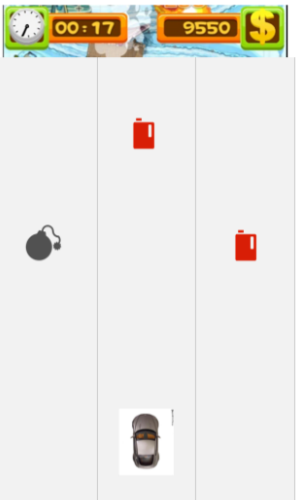
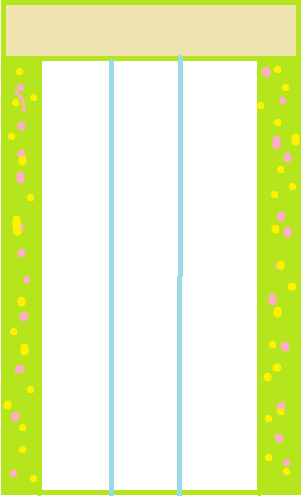
grass

diff --git a/js/main1.js b/js/main1.js
@@ -105,15 +105,16 @@ var states = {
     },
     // 游戏场景
     play: function() {
-    	var 
+    	var grassBeltWidth = 50,
     		scoreMusic,
         	bombMusic,
         	bgMusic;
+       
     	// 障碍物和奖励的速度
 		var obstacle_velocity = 300;
 		var	star_velocity = 300;
 		// x滑动的最小触发距离
-		var minTouchDis = width / 6;
+		var minTouchDis = width / 8;
     	
     	this.create = function(){
     		// 添加背景音乐
@@ -158,7 +159,7 @@ var states = {
 	        // 创建一个group，包含20个障碍物
 	        this.obstacles = game.add.group();
 	        this.obstacles.enableBody = true;
-	        this.obstacles.createMultiple(20, 'obstacle');
+	        this.obstacles.createMultiple(15, 'obstacle');
 	        
 	        // 创建一个group，包含10个奖励星星
 	        this.stars = game.add.group();
@@ -191,9 +192,8 @@ var states = {
 				//console.log('addMoveCallback--',3);
 			},this);
 			
-			
 	        // 定时器，创建障碍物和奖励
-	        this.timer = this.game.time.events.loop(1000, this.add_move_sprite, this); 
+	        this.timer = this.game.time.events.loop(200, this.add_move_sprite, this); 
 	        // 定时器，减少时间
 	        this.reduceTimer = this.game.time.events.loop(1000, this.reduceTime, this); 
     	},
@@ -206,20 +206,23 @@ var states = {
     	this.moveCar = function(moveType){
 	    	// 获取小车的当前x位置
 	    	var curCarX = this.car.world.x;
+    		var	halfRoadWidth = (game.world.width-grassBeltWidth*2)/6;
+        	var lRoadCenter =  grassBeltWidth+ halfRoadWidth*1-this.car.width/2;//左车道中心
+        	var cRoadCenter =  grassBeltWidth+ halfRoadWidth*3-this.car.width/2;//中车道中心
+        	var rRoadCenter =  grassBeltWidth+ halfRoadWidth*5-this.car.width/2;//右车道中心
 	    	if(moveType == "left"){
-	    		console.log("左滑");
-	    		if(curCarX === game.world.width*(1-(5-(1*2))/6)-this.car.width/2){
-		    		this.car.x = game.world.width*(1-(5-(0*2))/6)-this.car.width/2;
-		    	}else if(curCarX === game.world.width*(1-(5-(2*2))/6)-this.car.width/2){
-		    		this.car.x = game.world.width*(1-(5-(1*2))/6)-this.car.width/2;
+	    		//console.log("左滑");
+	    		if(curCarX === cRoadCenter){
+		    		this.car.x = lRoadCenter;
+		    	}else if(curCarX === rRoadCenter){
+		    		this.car.x = cRoadCenter;
 		    	}
 	    	}else if(moveType == "right"){
-	    		console.log("右滑");
-	    		var curCarX = this.car.world.x;
-	    		if(curCarX === game.world.width*(1-(5-(0*2))/6)-this.car.width/2){
-		    		this.car.x = game.world.width*(1-(5-(1*2))/6)-this.car.width/2;
-		    	}else if(curCarX === game.world.width*(1-(5-(1*2))/6)-this.car.width/2){
-		    		this.car.x = game.world.width*(1-(5-(2*2))/6)-this.car.width/2;
+	    		//console.log("右滑");
+	    		if(curCarX === lRoadCenter){
+		    		this.car.x = cRoadCenter;
+		    	}else if(curCarX === cRoadCenter){
+		    		this.car.x = rRoadCenter;
 		    	}
 	    	}
 	    },
@@ -230,7 +233,8 @@ var states = {
 	        	// 障碍物从跑道的3个位置掉落
 	        	// 随机[0,2]的整数,确定下落的跑道
 	    		var num = Math.floor(Math.random()*3);
-	        	var x = game.world.width*(1-(5-(num*2))/6)-obstacle.width/2;
+	        	var	halfRoadWidth = (game.world.width-grassBeltWidth*2)/6;
+	        	var x = grassBeltWidth+ halfRoadWidth*(num*2+1)-obstacle.width/2;
 		  		var y = -obstacle.height;
 	        	// 重新设置位置
 		        obstacle.reset(x, y);
@@ -248,7 +252,8 @@ var states = {
 	        	// 障碍物从跑道的3个位置掉落
 	        	// 随机[0,2]的整数,确定下落的跑道
 	    		var num = Math.floor(Math.random()*3);
-	        	var x = game.world.width*(1-(5-(num*2))/6)-star.width/2;
+	    		var	halfRoadWidth = (game.world.width-grassBeltWidth*2)/6;
+	    		var x = grassBeltWidth+ halfRoadWidth*(num*2+1)-star.width/2;
 		  		var y = -star.height;
 	        	// 重新设置位置
 		        star.reset(x, y);
@@ -261,16 +266,23 @@ var states = {
 	    },
 	    this.add_move_sprite = function(){
 	    	// 随机[0,1]的整数，确定是创建障碍物还是星星
-	    	var starNum = Math.floor(Math.random()*3);
+	    	var starNum = Math.floor(Math.random()*400);
 	    	console.log("starNum====",starNum)
-	    	if(starNum !== 0){
+	    	
+	    	if(starNum <= 30){
 	    		this.add_one_star();
-	    	}else if(starNum === 1){
+	    	}else if(starNum>30 && starNum <= 50){
 	    		this.add_one_star();
+	    		this.add_one_star();
+	    	}else if(starNum>50 && starNum <= 100){
+	    		this.add_one_star();
+	    		this.add_one_star();
+	    		this.add_one_star();
+	    		this.add_one_star();
+	    	}else if(starNum>100 && starNum <= 120){
 	    		this.add_one_obstacle();
-	    		this.add_one_star();
 	    	}else{
-	    		this.add_one_obstacle();
+	    		
 	    	}
 	    },
 	    this.reduceTime = function(){
@@ -285,7 +297,6 @@ var states = {
 				game.state.start('over', true, false, this.score); 
 	        }
 	    },
-	    
 	    this.crashCarFunc = function(car, obstacle){
 	    	//console.log("碰到了障碍物-翻车");
 	    	// 播放音效
